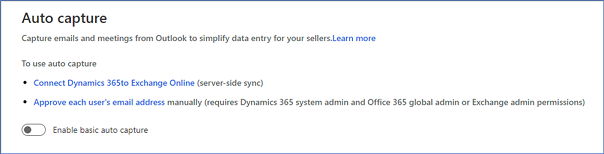
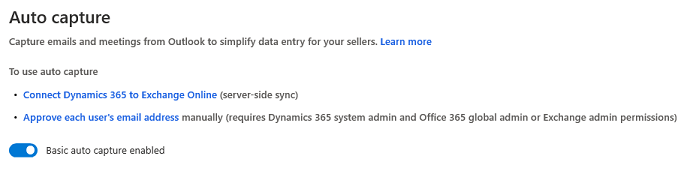
updated images and fictitious names

Changed region(s): [[0.0, 0.0, 1.0, 1.0]]

diff --git a/ai-docs/sales/configure-auto-capture.md b/ai-docs/sales/configure-auto-capture.md
@@ -24,13 +24,13 @@ topic-status: Drafting
 When you enable auto capture, you help salespeople in your organization by suggesting relevant customer activities in Microsoft Dynamics 365 Sales by capturing emails and meetings from Outlook.
 
 Auto capture is available in two forms:
-<!--note from editor: Edit to the first line below is suggested, just to help later when we're contrasting the two versions. I didn't call it "basic auto capture" everywhere, but I did change some references later in this topic to clarify which version we're talking about. (Lines 39, 45, 53, and 65.)-->
+
 -	**Auto capture** (also called _basic auto capture_): This feature is available for free with Dynamics 365 Sales Insights for Dynamics 365 Sales. To learn more, see [How to enable auto capture](#how-to-enable-basic-auto-capture).
 
--	**Premium auto capture**: Premium auto capture is available as a preview <!--note from editor: This is still a preview feature? We need to add a public preview disclaimer in that case, yes?-->with Dynamics 365 Sales Insights for Dynamics 365 Sales. To learn more, see [How to enable and configure premium auto capture](#how-to-enable-and-configure-premium-auto-capture).
+-	**Premium auto capture**: Premium auto capture is available as a preview with Dynamics 365 Sales Insights for Dynamics 365 Sales. To learn more, see [How to enable and configure premium auto capture](#how-to-enable-and-configure-premium-auto-capture).
 
 > [!IMPORTANT]
-> By enabling this feature, you consent to share data about your customers' email activity with an external system. Data imported from external systems into Sales Insights are subject to the Microsoft Privacy Statement.<!--note from editor: Is this what you mean by "our privacy statement"? If so, should we link to it? https://privacy.microsoft.com/en-us/privacystatement If not, should we link to the relevant privacy statement? Should I ask Renee, or do you know what's the right thing to do here?-->
+> By enabling this feature, you consent to share data about your customers' email activity with an external system. Data imported from external systems into Sales Insights are subject to the [Microsoft Privacy Statement](https://go.microsoft.com/fwlink/?linkid=2116778).
 
 ## Things you must know
 
@@ -38,7 +38,7 @@ Before you configure auto capture for Dynamics 365 Sales in your organization, n
 
 -	You can enable both basic and premium auto capture for your organization.
 
--	To enable both versions of auto capture, you select a group of security roles to use premium auto capture and you select other security roles to use auto capture.<!--note from editor: Edit suggested, maybe inaccurate. The original was a bit ambiguous: "...and other security roles will have auto capture." I assume that if a security role isn't defined for one type of auto capture or another, it won't be able to use auto capture at all? If that's not the case, please excuse and maybe explicitly say that any roles not assigned to use premium auto capture will default to basic.-->
+-	To enable both versions of auto capture, you select a group of security roles to use premium auto capture. By default, security roles that are not assigned to use premium auto capture uses basic auto capture.
 
 -	When premium auto capture is enabled for your entire organization, basic auto capture is disabled.
 
@@ -56,7 +56,7 @@ Before you enable auto capture, perform the following tasks:
 
 -	Enable Sales Insights. To learn more, see [Enable and configure free Sales Insights features](intro-admin-guide-sales-insights.md#enable-and-configure-free-sales-insights-features).
 
--	Use Microsoft Exchange Online as your email server.<!--note from editor: Should we specify Exchange as the server and Outlook as the mail client? We sometimes refer to Exchange data and Exchange account, and sometimes it's Outlook data. Should it be consistent?-->
+-	Use Exchange as the server and Outlook as the mail client.
 
 -	Approve the email addresses of users to allow queries against their Exchange data (this requires tenant-level admin privileges). To learn more, see [Approve email](/dynamics365/customer-engagement/admin/connect-exchange-online#approve-email).
 
@@ -68,13 +68,20 @@ Before you enable auto capture, perform the following tasks:
 
 2.	On the site map under **Productivity intelligence**, select **Auto capture**. 
 
-3.	Turn on the **Enable basic auto capture** toggle.<!--note from editor: I think it would be better if the toggle were turned on in this image. Also, there should be a space in "365to". -->
+3.	Turn on the **Enable basic auto capture** toggle.
 
    > [!div class="mx-imgBorder"]
    > ![Enable or disable auto capture](media/si-admin-auto-capture-enable-disable.png "Enable or disable auto capture")
 
 ## How to enable and configure premium auto capture
-<!--note from editor: Please check this edit. I got a little lost here; this edit is my attempt to make it clear what you get extra with premium auto capture.-->
+
+[!INCLUDE [cc-beta-prerelease-disclaimer](../includes/cc-beta-prerelease-disclaimer.md)]
+
+> [!IMPORTANT]
+> - [!INCLUDE[cc_preview_features_definition](../includes/cc-preview-features-definition.md)]  
+> - [!INCLUDE[cc_preview_features_expect_changes](../includes/cc-preview-features-expect-changes.md)]
+> - Microsoft doesn't provide support for this preview feature. Microsoft Technical Support won’t be able to help you with issues or questions. Preview features aren't meant for production use and are subject to a separate [supplemental terms of use](https://go.microsoft.com/fwlink/p/?linkid=870960).
+
 In addition to getting suggestions for customer-related activities through capturing emails and meetings, premium auto capture gets suggestions by capturing contacts through a salesperson's communications.
 
 To enable and configure premium auto capture, follow these steps:
@@ -89,7 +96,7 @@ Before you enable premium auto capture, perform the following tasks:
 
 -	Enable Sales Insights. To learn more, see [Enable and configure free Sales Insights features](intro-admin-guide-sales-insights.md#enable-and-configure-free-sales-insights-features).
 
--	Use Microsoft Exchange Online as your email server.<!--note from editor: As above. Should we specify Outlook as the client?-->
+-	Use Exchange as the server and Outlook as the mail client.
 
 -	(Optional) Approve the email addresses of users to allow queries against Exchange (this requires tenant-level admin privileges) and set up server-side synchronization. If you don't configure these options, users will be required to provide consent to access their Outlook data. To learn more, see [Approve email](/dynamics365/customer-engagement/admin/connect-exchange-online#approve-email) and [Set up server-side synchronization of email, appointments, contacts, and tasks](/dynamics365/customer-engagement/admin/set-up-server-side-synchronization-of-email-appointments-contacts-and-tasks).
 
@@ -99,7 +106,7 @@ Before you enable premium auto capture, perform the following tasks:
 
 2.	On the site map under **Productivity intelligence**, select **Auto capture**.
 
-3.	On the settings page, in the **Premium auto capture (preview)** section, turn on the **Enable preview version** toggle<!--note from editor: The image shows the toggle label as "Preview version enabled."-->.
+3.	On the settings page, in the **Premium auto capture (preview)** section, turn on the **Enable preview version** toggle.
 
     > [!div class="mx-imgBorder"]
     > ![Enable or disable premium auto capture](media/si-admin-auto-capture-enable-premium.png "Enable or disable premium auto capture")
@@ -108,7 +115,7 @@ Before you enable premium auto capture, perform the following tasks:
 
     -	**All security roles**: Select this option to enable the feature for the entire organization.
 
-    -	**Specific security roles**: Select this option to enable this feature for specific security roles, and then choose the security roles. In the example in the following image, we're adding the security roles **Sales Manager**, **Salesperson**, and **Marketing Manager**.<!--note from editor: The following image also shows the toggle as "Preview version enabled."-->
+    -	**Specific security roles**: Select this option to enable this feature for specific security roles, and then choose the security roles. In the example in the following image, we're adding the security roles **Sales Manager**, **Salesperson**, and **Marketing Manager**.
 
         > [!div class="mx-imgBorder"]
         > ![Add security roles](media/si-admin-auto-capture-premium-add-security-roles.png "Add security roles")

diff --git a/ai-docs/sales/premium-auto-capture.md b/ai-docs/sales/premium-auto-capture.md
@@ -15,18 +15,26 @@ caps.latest.revision: 01
 ---
 
 # Premium auto capture
+
+[!INCLUDE [cc-beta-prerelease-disclaimer](../includes/cc-beta-prerelease-disclaimer.md)]
+
+> [!IMPORTANT]
+> - [!INCLUDE[cc_preview_features_definition](../includes/cc-preview-features-definition.md)]  
+> - [!INCLUDE[cc_preview_features_expect_changes](../includes/cc-preview-features-expect-changes.md)]
+> - Microsoft doesn't provide support for this preview feature. Microsoft Technical Support won’t be able to help you with issues or questions. Preview features aren't meant for production use and are subject to a separate [supplemental terms of use](https://go.microsoft.com/fwlink/p/?linkid=870960).
+
 <!--note from editor: I don't see any of the the fictitious names used in body copy and images in our list of approved fictitious names. If these names weren't included with sample data, please redo the graphics and text. This is true of the company names also - I don't find any in CELAweb's list of acceptable fake company names. More information: https://microsoft.sharepoint.com/sites/LCAWeb/Home/Copyrights-Trademarks-and-Patents/Trademarks/Fictitious-Names#-->
 <!--note from editor: Please double-check the edit to this first paragraph. I tried to make one clear statement of what premium auto capture gives that the basic flavor doesn't. I don't think I captured it completely.-->
 Premium auto capture helps salespeople focus on generating revenue instead of spending their time updating Dynamics 365 Sales data and logging every customer-related activity. In addition to activity suggestions based on capturing emails and meetings, premium auto capture also provides suggestions for creating new contacts.
 
 
 ## Give consent
-<!--note from editor: I thought the configure-auto-capture.md topic says that if the admin wants to, they can set this up so no one has to give their individual consent. If this is true, maybe this could say "you might need to give your consent to allow..." -->
-When an administrator enables premium auto capture, you need to give your consent to allow Dynamics 365 Sales to access your Outlook data <!--note from editor: Or "Exchange"?-->so that auto capture can provide suggestions for activities and contacts. You can give consent in one of the following ways:
+
+When an administrator enables premium auto capture, you need to give your consent to allow Dynamics 365 Sales to access your Exchange data so that auto capture can provide suggestions for activities and contacts. You can give consent in one of the following ways:
 
 -	[Timeline](#through-the-timeline)
 
--	[Relationship Assistant](#through-the-relationship-assistant)<!--note from editor: I haven't seen the Sales Hub UI, so maybe I'm wrong to capitalize Relationship Assistant. If so, please excuse!-->
+-	[Relationship Assistant](#through-the-relationship-assistant)
 
 -	[Personal settings](#through-personal-settings)
 
@@ -77,7 +85,7 @@ When an administrator enables premium auto capture, you need to give your consen
 
 ## Manage activity suggestions on the timeline
 
-When you open the record for an entity, the timeline displays the activity suggestions, such as emails and meetings, that are available for the record. Based on the communication captured from your Microsoft Exchange<!--note from editor: Should this be "Exchange data," "Exchange account," or "Outlook data"? Or a combination of them?-->, these suggestions will be visible only to you. The suggestions are available for you to review and save for other users to view. You can also dismiss or edit the suggestions, to make sure you capture the right information in the right place. 
+When you open the record for an entity, the timeline displays the activity suggestions, such as emails and meetings, that are available for the record. Based on the communication captured from your Exchange data, these suggestions will be visible only to you. The suggestions are available for you to review and save for other users to view. You can also dismiss or edit the suggestions, to make sure you capture the right information in the right place. 
 
 > [!div class="mx-imgBorder"]
 > ![Auto capture suggestions](media/auto-capture-premium-activity-suggestions.png "Auto capture suggestions")
@@ -87,12 +95,12 @@ By default, a single suggestion is displayed. You can select **Show more** to di
 > [!div class="mx-imgBorder"]
 > ![Auto capture all activity suggestions](media/auto-capture-premium-all-activity-suggestions.png "Auto capture all activity suggestions")
 
--	**Save**: Select this option to add a suggestion as an activity on the timeline wall of a record. After the suggestion is added, other users in your organization can view this suggestion for the record. For example, you open an opportunity **Interest shown in AX27** and observe that there are a few suggestions available under it on the timeline. With the **Gern Blanston sent an email** suggestion selected, select the **Save**<!--note from editor: Edit assumes "Save" is the tooltip for the icon--> icon. The suggestion is saved as an **Gern Blanston sent an email** activity on the timeline, and will be visible for other users who access this opportunity.
+-	**Save**: Select this option to add a suggestion as an activity on the timeline wall of a record. After the suggestion is added, other users in your organization can view this suggestion for the record. For example, you open an opportunity **Interest shown in AX27** and observe that there are a few suggestions available under it on the timeline. With the **Gern Blanston sent an email** suggestion selected, select the **Save** icon. The suggestion is saved as an **Gern Blanston sent an email** activity on the timeline, and will be visible for other users who access this opportunity.
 
     > [!div class="mx-imgBorder"]
     > ![Save activity suggestion on timeline](media/auto-capture-premium-save-activity-suggestion-timeline.png "Saved activity suggestion on the timeline") 
 
--	**Edit**: Select this option to add a suggestion as an activity for another record. When you edit and save the suggestion, it's available as an activity on the timeline of the other record and will be visible for users who have access to the record. For example, you open an email from **Gern Blanston**. On the timeline, you observe that the **Gern Blanston sent an email** suggestion is more appropriate for **Jim Glynn** than the suggested email<!--note from editor: I'm not sure what "than the suggested email" refers to?-->. Select the edit option, and then use the **Regarding** lookup to choose **Jim Glynn**. 
+-	**Edit**: Select this option to add a suggestion as an activity for another record. When you edit and save the suggestion, it's available as an activity on the timeline of the other record and will be visible for users who have access to the record. For example, you open an email from **Gern Blanston**. On the timeline, you observe that the **Gern Blanston sent an email** suggestion is more appropriate for **Jim Glynn** than the suggestion. Select the edit option, and then use the **Regarding** lookup to choose **Jim Glynn**. 
  
     > [!div class="mx-imgBorder"]
     > ![Edit activity suggestion on timeline](media/auto-capture-premium-edit-activity-suggestion-timeline.png "Edit an activity suggestion on the timeline") 
@@ -152,7 +160,7 @@ To save an activity so it will be visible on the timeline for a record for other
  
 5.	In the confirmation message that appears, select **Save**.
 
-The activity suggestion is removed from the suggestions list and added to the timeline of the **Regarding** record<!--note from editor: I'm not sure whether this should be "field," "record," or "entity. It looks like the UI for the lookup calls it a "record," so I'll go with that.-->, making it visible for everyone who has access to the record.
+The activity suggestion is removed from the suggestions list and added to the timeline of the **Regarding** record, making it visible for everyone who has access to the record.
 
 ### Edit an activity
 

diff --git a/ai-docs/sales/free-auto-capture.md b/ai-docs/sales/free-auto-capture.md
@@ -16,25 +16,34 @@ caps.latest.revision: 01
 
 # Basic auto capture
 
-The activities captured by the auto capture feature are shown on the timeline in Microsoft Dynamics 365 Sales. The feature finds activities by applying a set of rules that are specific to the record type. For example, when you look at an opportunity in Microsoft Dynamics 365 Sales, the timeline shows all the activities you've logged, and in addition it shows suggestions for up to 50 recent emails and meetings from your Microsoft Exchange account <!--note from editor: Or "Outlook account"?-->that were sent to or from the primary contact for the opportunity or its stakeholders.
+The activities captured by the auto capture feature are shown on the timeline in Microsoft Dynamics 365 Sales. The feature finds activities by applying a set of rules that are specific to the record type. For example, when you look at an opportunity in Microsoft Dynamics 365 Sales, the timeline shows all the activities you've logged, and in addition it shows suggestions for up to 50 recent emails and meetings from your Outlook account that were sent to or from the primary contact for the opportunity or its stakeholders.
 
-You can identify the tracked and auto-captured (not yet tracked) emails on the timeline, as shown in the following image.
-<!--note from editor: There must be a graphic missing here? The numbered paragraphs below would be perfect as callouts to screenshot like the ones in premium-auto-capture.md.-->
+You can identify the tracked and auto-captured (not yet tracked) emails and meetings on the timeline:
 
-1.	**Tracked emails**: The envelope symbol indicates that this email is already being tracked, so it's already imported into Sales and is being shared with your team.
+-	**Auto capture emails and meetings**: These emails and meetings were detected by auto capture as being relevant to the current record, but they're still private so only you can see them. Compared to tracked messages, these messages are shown as untracked emails or meetings. In the following sample screenshot, we're showing untracekd email:
 
-2.	**Auto capture emails**: These emails were detected by auto capture as being relevant to the current record, but they're still private so only you can see them. Compared to tracked messages, these messages show a gray symbol <!--note from editor: Is this the grayed-out lightbulb you're referring to? This really should have an illustration here!-->and a dotted border, and include a **Track** link and a private email label.
+    > [!div class="mx-imgBorder"]
+    > ![Auto captured email](media/auto-capture-basic-capture-email.png "Auto captured email")
 
-3.	**Track link**: Select the link to track an activity captured by auto capture, making it visible to everyone who has access to the timeline of this specific record.
-<!--note from editor: Without the graphic that surely belongs above, it's hard to tell whether the following paragraph is going to look too repetitive. I'd like to revisit it after the graphic is added.-->
-The activities that auto capture finds are only visible to you, so other members of your sales team won't be able to see them in Sales. When you select the **Track** link on any auto capture message, you turn it into a tracked email message, which saves the activity into the Sales database and makes it visible to other members of your team. It might take a few minutes for an activity to go from not being tracked to tracked, during which time it will show a **Tracking pending** message.
+-	**Track link**: Select the **Track** icon on an untracked activity captured by auto capture, making it visible to everyone who has access to the timeline of this specific record.
+The activities that auto capture finds are only visible to you, so other members of your sales team won't be able to see them in Dynamics 365 Sales. When you select the **Track** link on any auto capture message, you turn it into a tracked email message, which saves the activity into the Dynamics 365 Sales database and makes it visible to other members of your team. It might take a few minutes for an activity to go from not being tracked to track, during which time it will show a **Tracking pending** message.
+
+    > [!div class="mx-imgBorder"]
+    > ![Contact suggestion grid view](media/auto-capture-basic-track-link.png "Contact suggestions grid view")
+
+
+-	**Tracked emails and meetings**: The envelope symbol indicates that this email or meeting is already being tracked, so it's already imported into Sales and is being shared with your team.
+
+    > [!div class="mx-imgBorder"]
+    > ![Contact suggestion grid view](media/auto-capture-basic-tracked-email.png "Contact suggestions grid view")
+
 
 As with other types of activity tiles shown on the timeline, you can select the tile to expand or collapse the content on the tile.
 
 ## Which activities are captured?
 
-Auto capture queries your Microsoft Exchange account <!--note from editor: Or "Outlook account"?-->and looks for activities related to the record you're looking at. The following table summarizes how auto capture identifies related activities.
-<!--note from editor: Edits to the table are meant to make the second column parallel. The verb is in the column heading, so we don't need "use" in the column entries.-->
+Auto capture queries your Outlook account and looks for activities related to the record you're looking at. The following table summarizes how auto capture identifies related activities.
+
 |Entity type|Matches these field values to the To, CC, or From address of each email and meeting |  
 |-----------------|--------------------------------------------------------------------------------------|  
 |Account|**Email** address of the listed **Primary Contact**.<br /><br /> **Email** addresses of the top 50 contacts that have the account as their parent account.<br /><br /> All **Email** addresses defined for the account record itself.|  

diff --git a/ai-docs/sales/auto-capture.md b/ai-docs/sales/auto-capture.md
@@ -17,9 +17,9 @@ caps.latest.revision: 13
 
 # Capture customer-related activities with auto capture
 
-Auto capture helps salespeople by simplifying the logging of customer-related activities into Microsoft Dynamics 365 Sales. Auto capture provides activity suggestions for emails and meetings related to your work based on data captured from your Microsoft Exchange account<!--note from editor: Should this be "Outlook account"?-->. This helps you see relevant emails and meetings on your timeline, together with all the other activities related to a given record.
+Auto capture helps salespeople by simplifying the logging of customer-related activities into Microsoft Dynamics 365 Sales. Auto capture provides activity suggestions for emails and meetings related to your work based on data captured from your Outlook account. This helps you see relevant emails and meetings on your timeline, together with all the other activities related to a given record.
 
-<!--note from editor: Please double-check the edits in the next two paragraphs. I tried to clarify in my own mind what the feature does, and also reduce the repetition.-->The activity suggestions generated by auto capture remain private and visible only to you until you choose to track the email or meeting. You can save or delete the suggestions, and you can make the email or meeting visible to everyone who has access to the specific record that the suggestion was added to.
+The activity suggestions generated by auto capture remain private and visible only to you until you choose to track the email or meeting. You can save or delete the suggestions, and you can make the email or meeting visible to everyone who has access to the specific record that the suggestion was added to.
 
 Auto capture logs every customer-related activity so sales personnel can focus their time on selling. These customer interactions are displayed on the timeline for records pertaining to Contact, Opportunity, Lead, Account, Case, and custom entities.
 
@@ -30,11 +30,3 @@ Auto capture is part of the Dynamics 365 Sales Insights suite of features and is
 •	[Premium auto capture](premium-auto-capture.md) 
 
 Your administrator must enable auto capture before you can try it out. For complete details about prerequisites, how to enable the feature, and how to set it up, see [Enable and configure auto capture](configure-auto-capture.md).
-<!--note from editor: You don't need to repeat these links directly underneath, so I'm commenting them out.-->
-<!--
-### See also
-
-[Enable and configure auto capture](configure-auto-capture.md)<br>
-[Basic auto capture](free-auto-capture.md)<br>
-[Premium auto capture](premium-auto-capture.md)
--->
